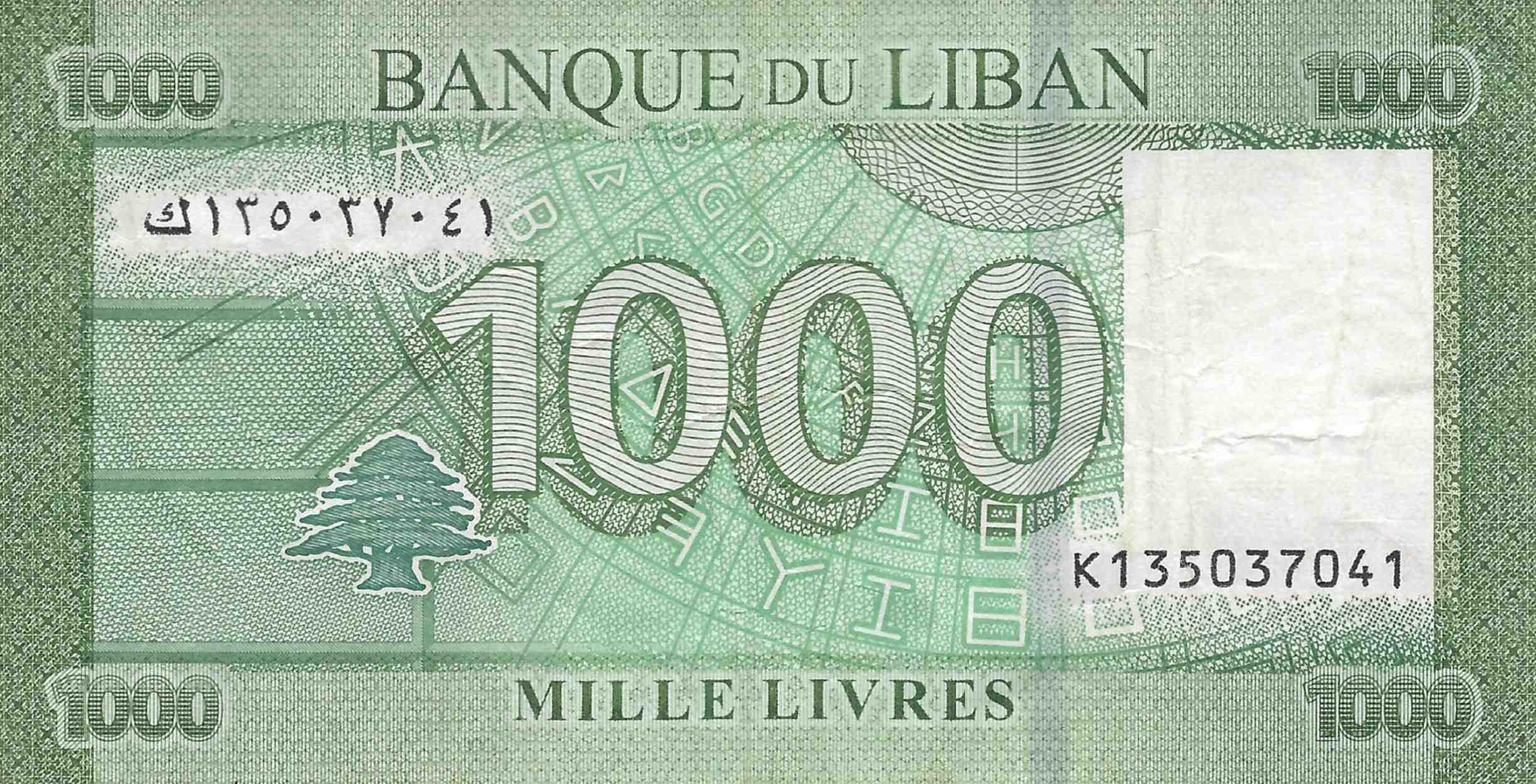
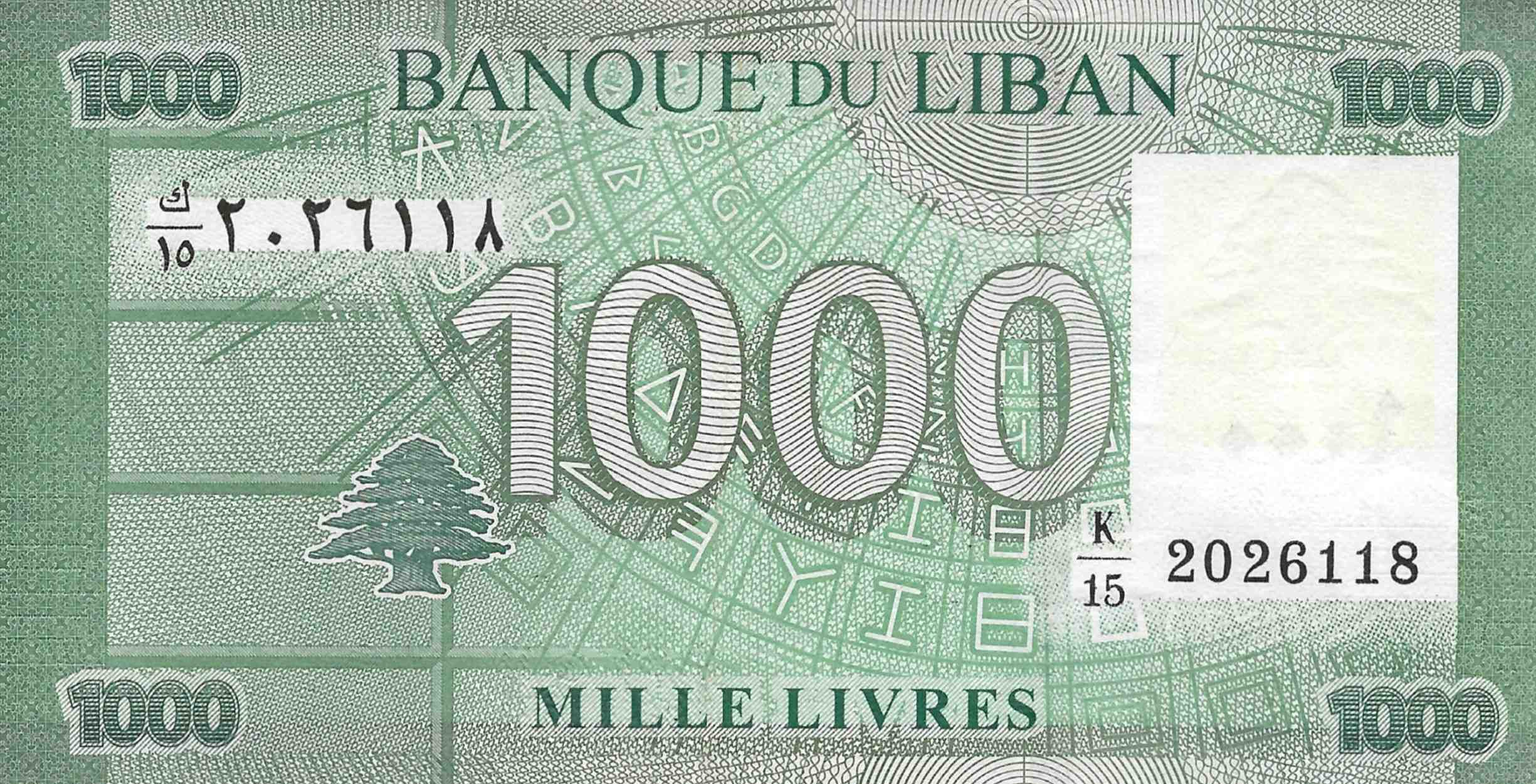
new bill updated

diff --git a/collection/lebanon.html b/collection/lebanon.html
@@ -82,6 +82,12 @@
             <button id="back-to-top" onclick="scrollToTop()">Top</button>
             <h1 style="text-align: center;" id="page-heading">Lebanon</h1>
 
+            <div id="slideshow2" class="slideshow-wrapper">
+                <div class="empty-box"></div>
+                <div id="slide2"></div>
+                <div id="info2"></div>
+            </div>
+
             <div id="slideshow1" class="slideshow-wrapper">
                 <div class="empty-box"></div>
                 <div id="slide1"></div>

diff --git a/data/lebanon.js b/data/lebanon.js
@@ -67,4 +67,5 @@ slideshowInfo[`${index}`] = {
         vi: "Tiền Tiêu Chuẩn Còn Đang Lưu Hành" 
     },
     size: "120 \u00D7 62 mm",
+    new: true,
 };
